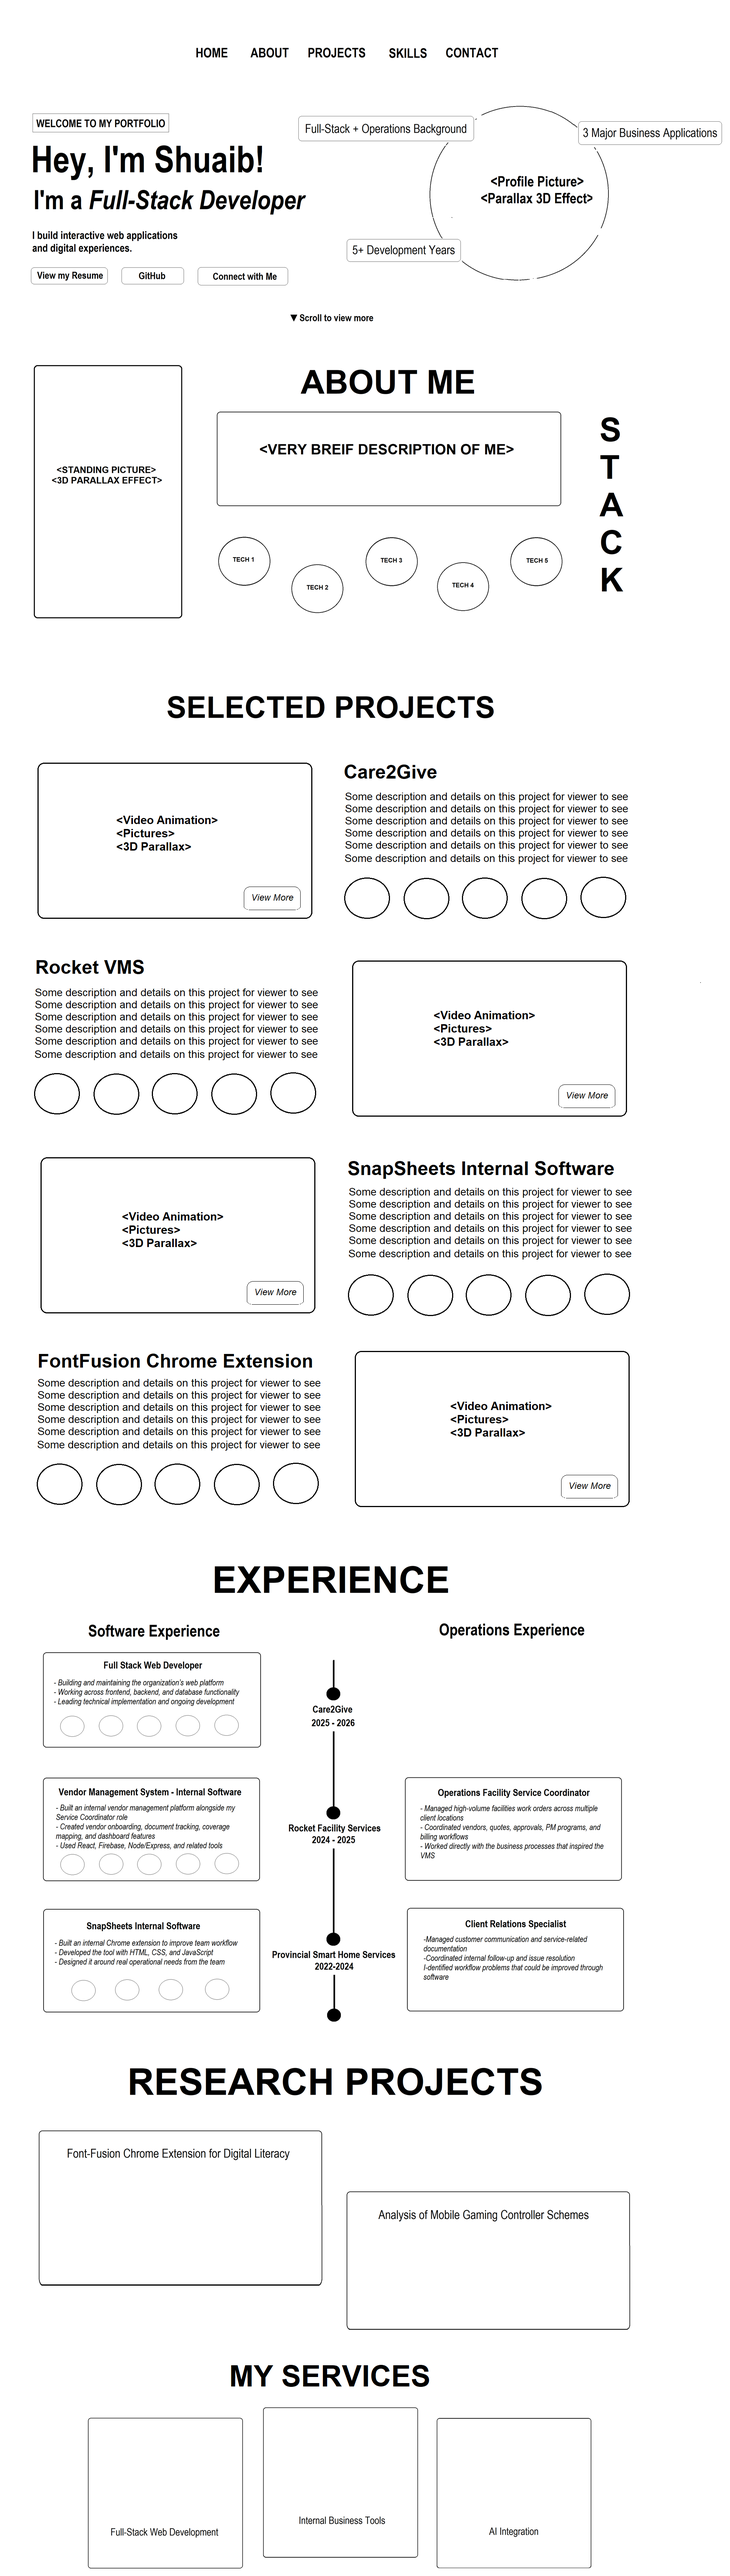
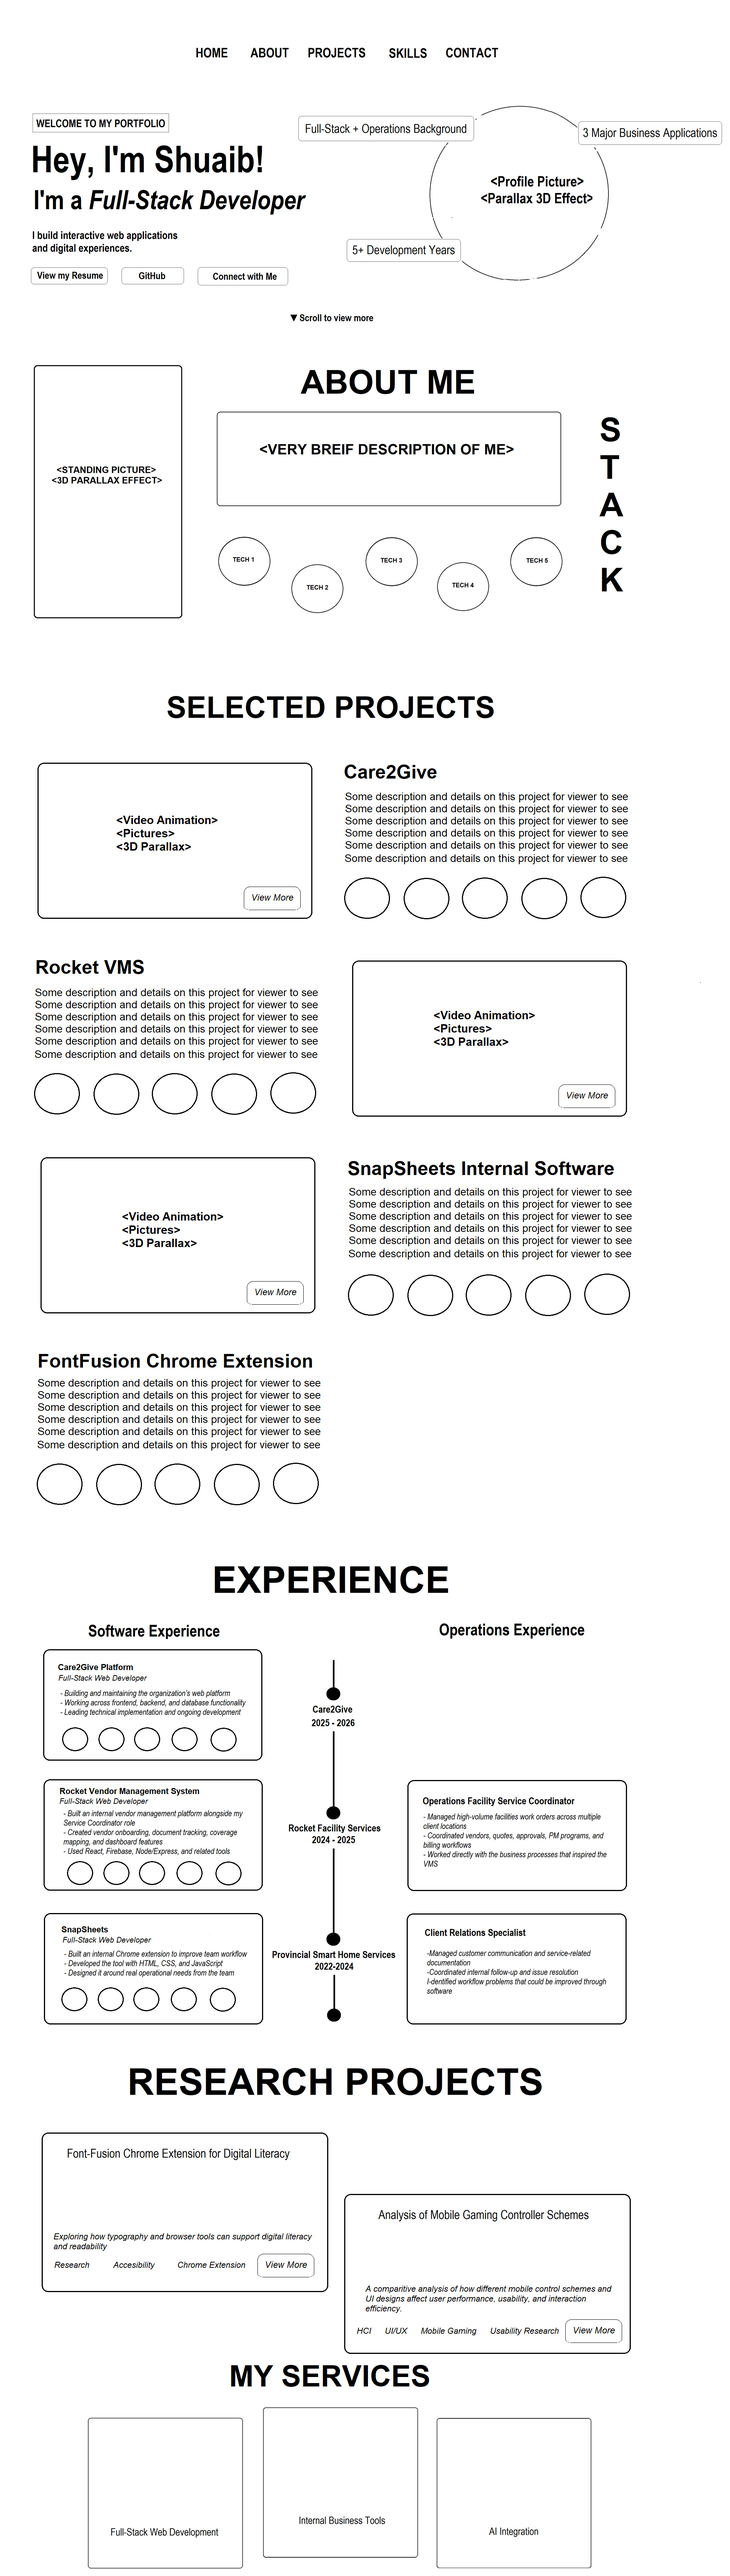
Added Experience Section

diff --git a/src/components/Experience.jsx b/src/components/Experience.jsx
@@ -1,0 +1,241 @@
+function Experience() {
+  return (
+    <section id="experience" className="py-20">
+      <div className="max-w-7xl mx-auto px-6 md:px-10 lg:px-16">
+
+        <h2 className="text-8xl font-bold text-center mb-16">
+          EXPERIENCE
+        </h2>
+
+        {/* Column headings */}
+        <div className="grid grid-cols-[1fr_0.45fr_1fr] gap-10 mb-8">
+          <h3 className="text-4xl font-bold text-center">
+            Software Experience
+          </h3>
+
+          <div></div>
+
+          <h3 className="text-4xl font-bold text-center">
+            Operations Experience
+          </h3>
+        </div>
+
+        {/* Experience rows */}
+        <div className="relative flex flex-col gap-12">
+
+          {/* Main timeline line */}
+          <div className="absolute left-1/2 -translate-x-1/2 top-0 bottom-0 w-[2px] bg-black"></div>
+
+          {/* ================= CARE2GIVE ROW ================= */}
+          <div className="grid grid-cols-[1fr_0.45fr_1fr] gap-10 items-stretch relative">
+
+            {/* Software Card */}
+            <div className="border rounded-xl p-6 min-h-[230px] h-full">
+              <h4 className="text-xl font-bold">
+                Care2Give Platform
+              </h4>
+
+              <p className="italic mb-4">
+                Full-Stack Web Developer
+              </p>
+
+              <ul className="mb-6">
+                <li>
+                  - Building and maintaining the organization’s web platform
+                </li>
+
+                <li>
+                  - Working across frontend, backend, and database functionality
+                </li>
+
+                <li>
+                  - Leading technical implementation and ongoing development
+                </li>
+              </ul>
+
+              <div className="flex gap-4">
+                <div className="w-14 h-14 border rounded-full"></div>
+                <div className="w-14 h-14 border rounded-full"></div>
+                <div className="w-14 h-14 border rounded-full"></div>
+                <div className="w-14 h-14 border rounded-full"></div>
+                <div className="w-14 h-14 border rounded-full"></div>
+              </div>
+            </div>
+
+            {/* Timeline */}
+            <div className="relative flex flex-col items-center bg-white z-10 self-center">
+              <div className="w-6 h-6 rounded-full bg-black mb-3"></div>
+
+              <p className="font-bold text-center">
+                Care2Give
+              </p>
+
+              <p className="font-semibold">
+                2025 - 2026
+              </p>
+            </div>
+
+            {/* Empty Operations Space */}
+            <div></div>
+
+          </div>
+
+          {/* ================= ROCKET ROW ================= */}
+          <div className="grid grid-cols-[1fr_0.45fr_1fr] gap-10 items-stretch relative">
+
+            {/* Software Card */}
+            <div className="border rounded-xl p-6 min-h-[230px] h-full">
+              <h4 className="text-xl font-bold">
+                Rocket Vendor Management System
+              </h4>
+
+              <p className="italic mb-4">
+                Full-Stack Web Developer
+              </p>
+
+              <ul className="mb-6">
+                <li>
+                  - Built an internal vendor management platform alongside my
+                  Service Coordinator role
+                </li>
+
+                <li>
+                  - Created vendor onboarding, document tracking, coverage
+                  mapping, and dashboard features
+                </li>
+
+                <li>
+                  - Used React, Firebase, Node/Express, and related tools
+                </li>
+              </ul>
+
+              <div className="flex gap-4">
+                <div className="w-14 h-14 border rounded-full"></div>
+                <div className="w-14 h-14 border rounded-full"></div>
+                <div className="w-14 h-14 border rounded-full"></div>
+                <div className="w-14 h-14 border rounded-full"></div>
+                <div className="w-14 h-14 border rounded-full"></div>
+              </div>
+            </div>
+
+            {/* Timeline */}
+            <div className="relative flex flex-col items-center bg-white z-10 self-center">
+              <div className="w-6 h-6 rounded-full bg-black mb-3"></div>
+
+              <p className="font-bold text-center">
+                Rocket Facility Services
+              </p>
+
+              <p className="font-semibold">
+                2024 - 2025
+              </p>
+            </div>
+
+            {/* Operations Card */}
+            <div className="border rounded-xl p-6 min-h-[230px] h-full">
+              <h4 className="text-xl font-bold mb-4">
+                Operations Facility Service Coordinator
+              </h4>
+
+              <ul>
+                <li>
+                  - Managed high-volume facilities work orders across multiple
+                  client locations
+                </li>
+
+                <li>
+                  - Coordinated vendors, quotes, approvals, PM programs, and
+                  billing workflows
+                </li>
+
+                <li>
+                  - Worked directly with the business processes that inspired
+                  the VMS
+                </li>
+              </ul>
+            </div>
+
+          </div>
+
+          {/* ================= PROVINCIAL ROW ================= */}
+          <div className="grid grid-cols-[1fr_0.45fr_1fr] gap-10 items-stretch relative">
+
+            {/* Software Card */}
+            <div className="border rounded-xl p-6 min-h-[230px] h-full">
+              <h4 className="text-xl font-bold">
+                SnapSheets
+              </h4>
+
+              <p className="italic mb-4">
+                Full-Stack Web Developer
+              </p>
+
+              <ul className="mb-6">
+                <li>
+                  - Built an internal Chrome extension to improve team workflow
+                </li>
+
+                <li>
+                  - Developed the tool with HTML, CSS, and JavaScript
+                </li>
+
+                <li>
+                  - Designed it around real operational needs from the team
+                </li>
+              </ul>
+
+              <div className="flex gap-4">
+                <div className="w-14 h-14 border rounded-full"></div>
+                <div className="w-14 h-14 border rounded-full"></div>
+                <div className="w-14 h-14 border rounded-full"></div>
+                <div className="w-14 h-14 border rounded-full"></div>
+                <div className="w-14 h-14 border rounded-full"></div>
+              </div>
+            </div>
+
+            {/* Timeline */}
+            <div className="relative flex flex-col items-center bg-white z-10 self-center">
+              <div className="w-6 h-6 rounded-full bg-black mb-3"></div>
+
+              <p className="font-bold text-center">
+                Provincial Smart Home Services
+              </p>
+
+              <p className="font-semibold">
+                2022 - 2024
+              </p>
+            </div>
+
+            {/* Operations Card */}
+            <div className="border rounded-xl p-6 min-h-[230px] h-full">
+              <h4 className="text-xl font-bold mb-4">
+                Client Relations Specialist
+              </h4>
+
+              <ul>
+                <li>
+                  - Managed customer communication and service-related
+                  documentation
+                </li>
+
+                <li>
+                  - Coordinated internal follow-up and issue resolution
+                </li>
+
+                <li>
+                  - Identified workflow problems that could be improved through
+                  software
+                </li>
+              </ul>
+            </div>
+
+          </div>
+
+        </div>
+
+      </div>
+    </section>
+  )
+}
+
+export default Experience

diff --git a/src/App.jsx b/src/App.jsx
@@ -2,6 +2,9 @@ import Navbar from './components/Navbar'
 import Home from './components/Home'
 import About from './components/About'
 import Projects from './components/Projects'
+import Experience from './components/Experience'
+import ResearchProjects from './components/ResearchProjects'
+
 
 function App() {
   return (
@@ -10,6 +13,8 @@ function App() {
       <Home />
       <About />
       <Projects />
+      <Experience />
+      <ResearchProjects />
     </main>
   )
 }
